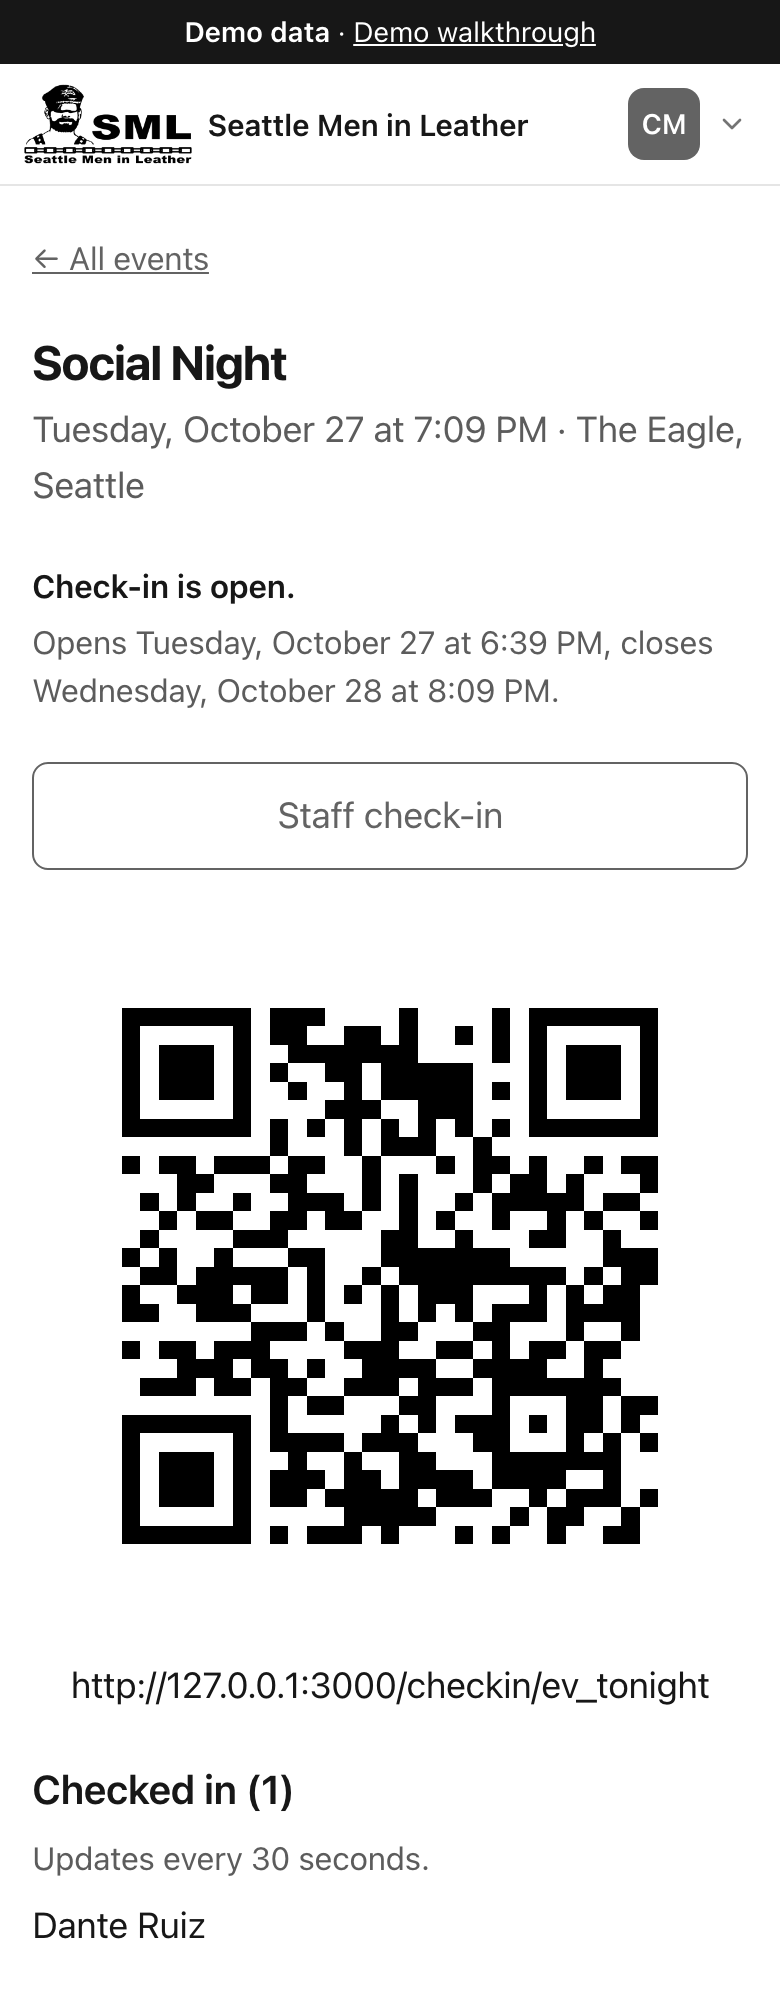
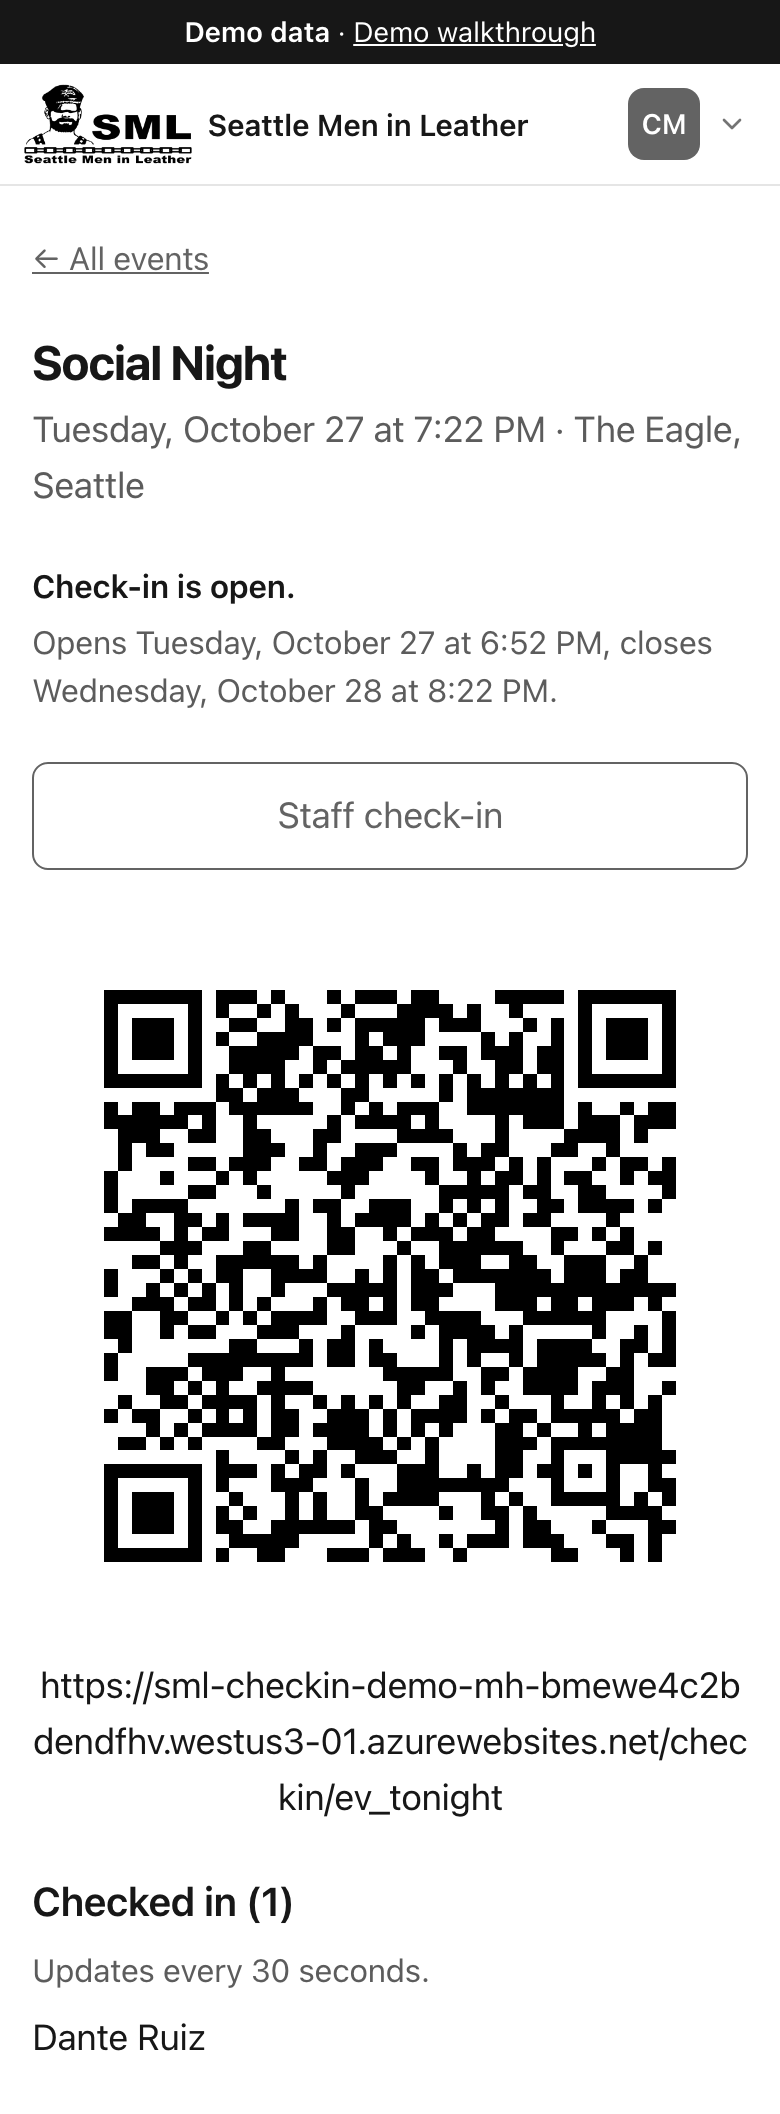
Docs: address review findings on the public-repo PR
- SECURITY.md: add a fallback if "Report a vulnerability" isn't available.
- README: "Node 24", drop the hand-typed version from the status line, say
  "at most three writes" in order, and match the fail-closed invariant.
- CLAUDE.md: the README's "How it works" must stay in step with the Invariants.
- Retake status.png (avatar shows DR) and admin-attendees.png (QR code and URL
  point at the demo).

diff --git a/README.md b/README.md
@@ -11,7 +11,7 @@ system of record; this app is a thin layer on top of it.
 - Members get a status page; the SML Board gets event QR codes, live attendee
   lists, and manual check-in.
 
-**Status:** v0.7.1, running on mock TidyHQ. Live TidyHQ is planned (1.0.0).
+**Status:** running on mock TidyHQ, live TidyHQ planned (1.0.0).
 
 ## Try the demo
 
@@ -30,13 +30,13 @@ scenario. The demo data resets whenever the server restarts.
 ## How it works
 
 - TidyHQ is the only data store. The app has no database of its own.
-- A check-in makes exactly three writes to TidyHQ: adding the member to the
-  event's group, adding the points, and (for staff check-ins only) a note
-  saying a staff member did it.
+- A check-in makes at most three writes to TidyHQ, in this order: adding the
+  member to the event's group, adding the points, and then (for staff
+  check-ins only) a note saying a staff member did it.
 - If something fails partway, a member can miss a point but is never awarded
   one twice.
-- Admin and volunteer access fail closed: if TidyHQ can't confirm who someone
-  is, they aren't let in.
+- Admin and volunteer access fail closed: if the admin or volunteer group
+  can't be read, nobody is let in.
 - The server runs as exactly one instance, because the mock TidyHQ keeps its
   data in memory.
 
@@ -50,7 +50,7 @@ App Service deployed from GitHub Actions with OIDC.
 
 ## Run it locally
 
-Requires Node 24 or newer (see `.nvmrc`).
+Requires Node 24 (see `.nvmrc`).
 
 ```bash
 npm install                  # install dependencies

diff --git a/CLAUDE.md b/CLAUDE.md
@@ -143,7 +143,8 @@ Before opening any PR, check:
 - **E2E cost:** keep new specs lean; specs that wait on real time run in one
   project only.
 - **Docs:** update `docs/plans` status and CLAUDE.md or the matching
-  `.claude/rules/` file when behavior changes.
+  `.claude/rules/` file when behavior changes. The README's "How it works"
+  summary must stay in step with the Invariants.
 
 Changing an existing test: say which test and why in both the summary and the
 PR description.

diff --git a/SECURITY.md b/SECURITY.md
@@ -9,5 +9,9 @@ Only the latest release is supported.
 Please report problems through this repo's Security tab: choose **Report a
 vulnerability**. Don't open a public issue for a security problem.
 
+If **Report a vulnerability** isn't available, open an issue asking for a
+private way to contact the maintainer. Don't put any details of the problem in
+the issue.
+
 Never include secrets (tokens, client secrets, session values) or member data in
 a report.
